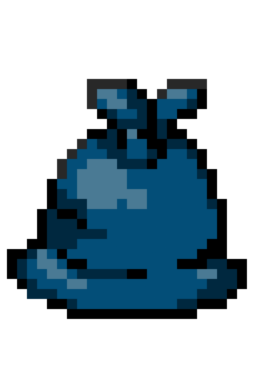
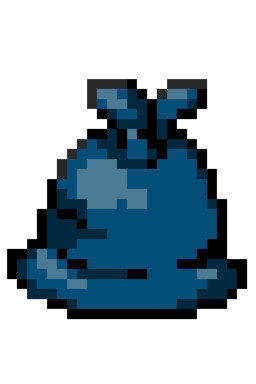
schimbari joc_rau

diff --git a/Project/Assets/Scripts/Script_joc_rau/movementsideways.cs b/Project/Assets/Scripts/Script_joc_rau/movementsideways.cs
@@ -5,16 +5,22 @@ using UnityEngine.InputSystem;
 using UnityEngine.Playables;
 
 // A behaviour that is attached to a playable
-public class test : MonoBehaviour
+public class script_sac : MonoBehaviour
 {
     public float moveDistance = 0.1f;
     public float movementZone = 6f;
+    SpriteRenderer sacrenderer;
+    public int type;
+    void Start()
+    {
+        sacrenderer = gameObject.GetComponent<SpriteRenderer>();
+    }
 
     void Update()
     {
         transform.rotation = new Quaternion(0, 0, 0, 0);
         transform.position = new Vector3(transform.position.x, -2.88f, 0);
-        if ( Keyboard.current.dKey.isPressed || Keyboard.current.rightArrowKey.isPressed)
+        if (Keyboard.current.rightArrowKey.isPressed)
         {
              transform.position = new Vector3(
                 transform.position.x + moveDistance,
@@ -22,7 +28,7 @@ public class test : MonoBehaviour
                 transform.position.z
             );
         }
-        if (Keyboard.current.aKey.isPressed || Keyboard.current.leftArrowKey.isPressed)
+        if (Keyboard.current.leftArrowKey.isPressed)
         {
             transform.position = new Vector3(
                 transform.position.x - moveDistance,
@@ -48,10 +54,42 @@ public class test : MonoBehaviour
             transform.position = new Vector3(transform.position.x, transform.position.y, transform.position.z);
         }
 
+        Sprite[] saci = Resources.LoadAll<Sprite>("joc_rau/saci");
+        if (Keyboard.current.aKey.isPressed)//sac negru
+        {
+            gameObject.GetComponent<script_sac>().type = 4;
+            sacrenderer.sprite = saci[0];
+        }
+
+        if (Keyboard.current.sKey.isPressed)//sac albastru
+        {
+            gameObject.GetComponent<script_sac>().type = 0;
+            sacrenderer.sprite = saci[1];
+        }
+        if (Keyboard.current.dKey.isPressed)//sac maro
+        {
+            gameObject.GetComponent<script_sac>().type = 3;
+            sacrenderer.sprite = saci[2];
+        }
+        if (Keyboard.current.fKey.isPressed)//sac verde
+        {
+            gameObject.GetComponent<script_sac>().type = 1;
+            sacrenderer.sprite = saci[3];
+        }
+
+        if (Keyboard.current.gKey.isPressed)//sac galben
+        {
+            gameObject.GetComponent<script_sac>().type =2;
+            sacrenderer.sprite = saci[4];
+        }
     }
 
     private void OnCollisionEnter2D(Collision2D collision)
     {
         Debug.Log("hit" + collision.gameObject.name);
+
     }
+
+    
+   
 }

diff --git a/Project/Assets/Scripts/Script_joc_rau/spawner_gunoaie.cs b/Project/Assets/Scripts/Script_joc_rau/spawner_gunoaie.cs
@@ -1,3 +1,4 @@
+using JetBrains.Annotations;
 using System;
 using System.Collections;
 using System.Collections.Generic;
@@ -10,16 +11,20 @@ using UnityEngine.UI;
 
 public class spawner_gunoaie : MonoBehaviour
 {
+    public GameObject sac;
     public GameObject gunoi;
     int spriteIndex;
     public float rate = 2;
     private float contor = 0;
-    public float offset_h = 10;
+    public float offset_h;
     private float pct_min;
     private float pct_max;
+    public int ct = 0;
+
     // Start is called once before the first execution of Update after the MonoBehaviour is created
     void Start()
     {
+        offset_h = GameObject.Find("sac").GetComponent<script_sac>().movementZone;
         pct_min = transform.position.x - offset_h;
         pct_max = transform.position.x + offset_h;
     }
@@ -41,6 +46,8 @@ public class spawner_gunoaie : MonoBehaviour
 
             spriteIndex = UnityEngine.Random.Range(0, 5);
             SpriteRenderer gunoirenderer = gunoi.GetComponent<SpriteRenderer>();
+            gunoi.GetComponent<script_gunoi>().type = spriteIndex;
+
 
             if (spriteIndex == 0)
                 gunoirenderer.sprite = blueSprites[UnityEngine.Random.Range(0, blueSprites.Length)];
@@ -55,6 +62,12 @@ public class spawner_gunoaie : MonoBehaviour
 
             Instantiate(gunoi, new Vector3(UnityEngine.Random.Range(pct_min, pct_max), transform.position.y, 0), transform.rotation);
             contor = 0;
+
+           
+
+            
+             
+
         }
     }
 }

diff --git a/Project/Assets/Scripts/Script_joc_rau/script_gunoi.cs b/Project/Assets/Scripts/Script_joc_rau/script_gunoi.cs
@@ -6,7 +6,7 @@ public class script_gunoi : MonoBehaviour
    
     public float viteza = 5;
     public float deadzone = -8;
-  
+    public int type;
 
     // Update is called once per frame
     void Update()
@@ -25,6 +25,11 @@ public class script_gunoi : MonoBehaviour
 
     private void OnCollisionEnter2D(Collision2D collision)
     {
+        if(type==collision.gameObject.GetComponent<script_sac>().type)
+        {
+            Debug.Log("score ++");
+        }
+
         Debug.Log("hitgunoi" + collision.gameObject.name);
         Destroy(gameObject);
     }
